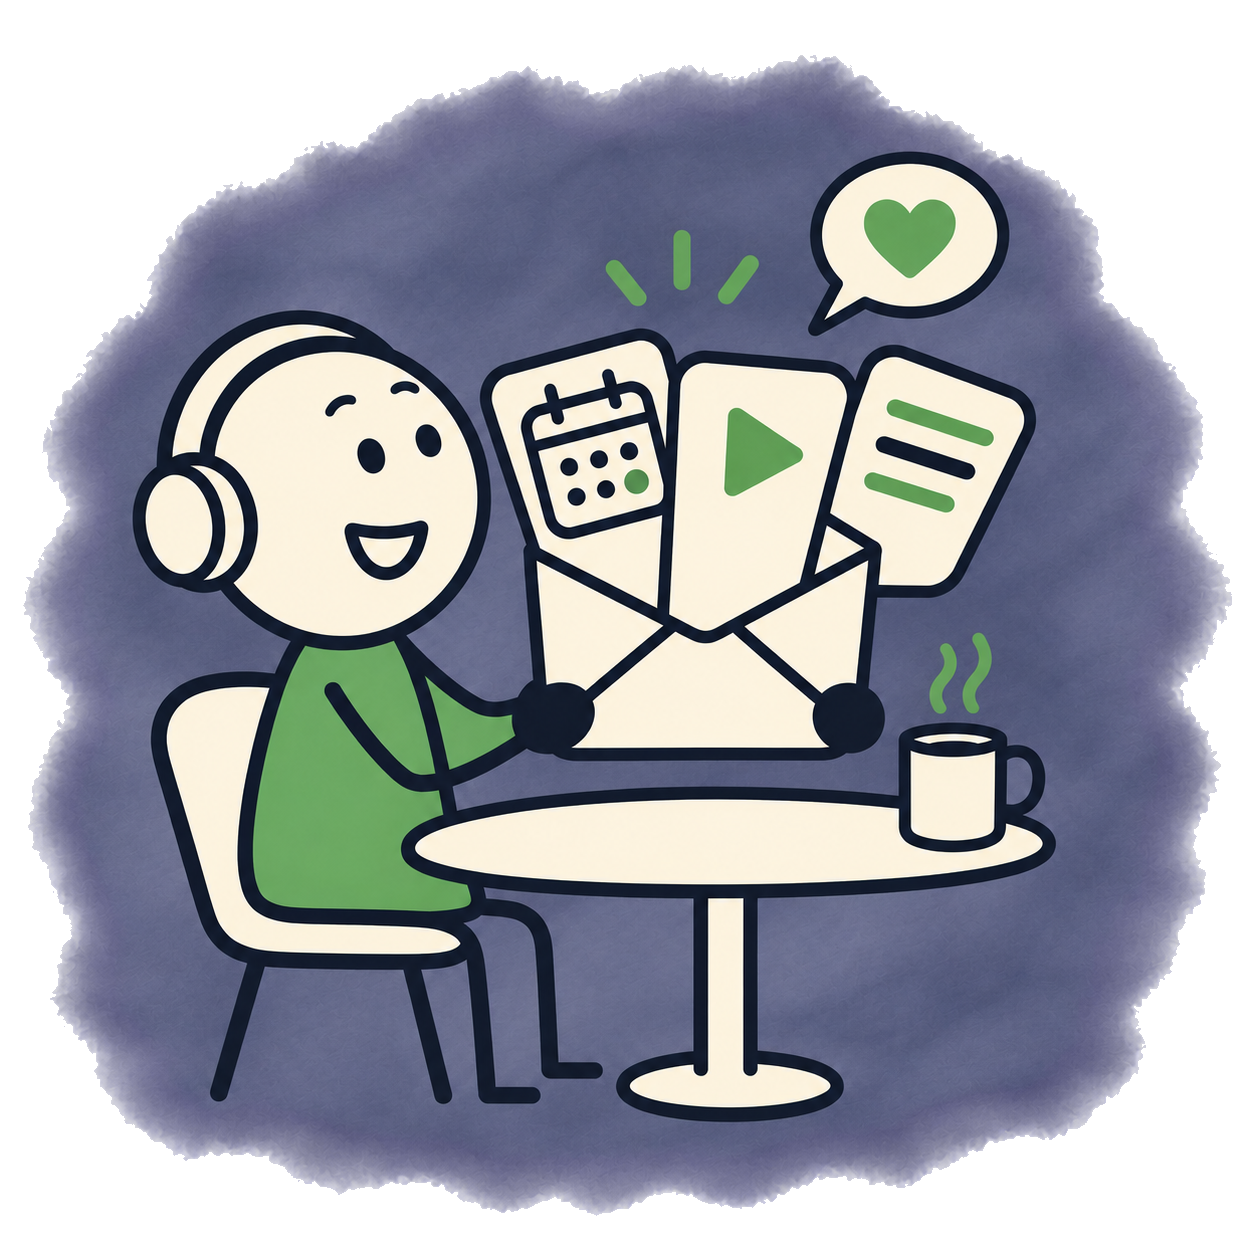
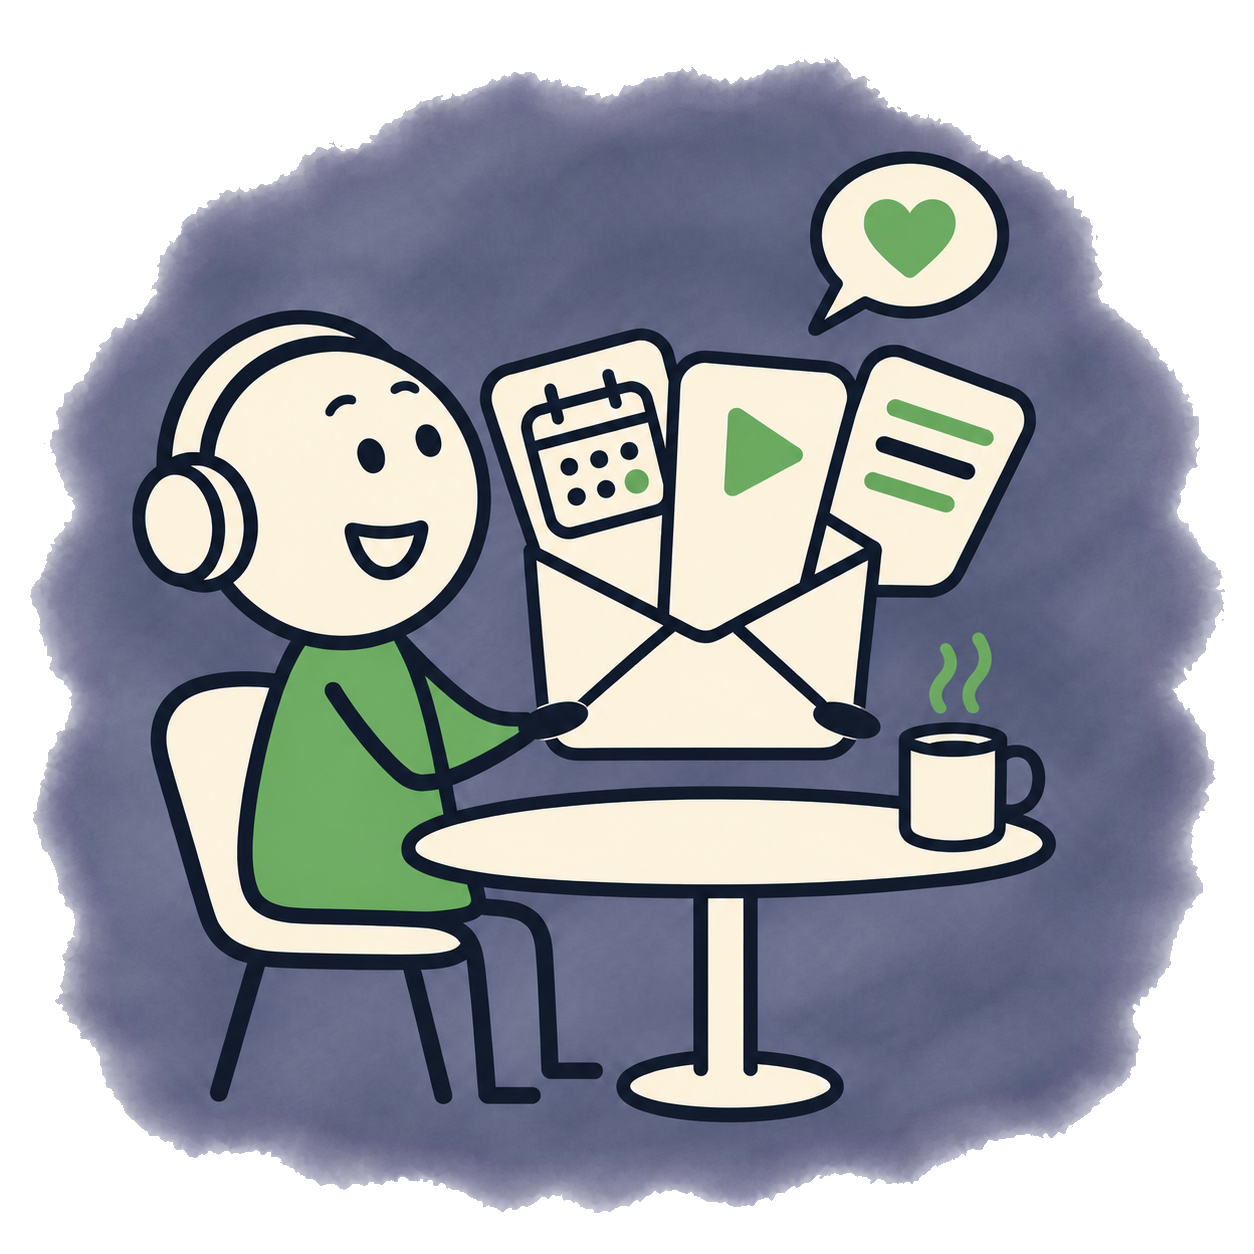
Newsletter hero drawing: no green spark lines, small dark oval hands
The style rules ask for neither starbursts over objects nor round-ball hands;
both themes re-edited from the same compositions and re-keyed.

diff --git a/_docs/design/illustration-assets.md b/_docs/design/illustration-assets.md
@@ -342,7 +342,9 @@ envelope of event, video and article cards) were generated with the built-in
 imagegen tool through Codex (backend unverified) on `#ff00ff` chroma, with
 `podcast-hero.webp` / `podcast-hero-dark.webp` as the style references; the
 dark file is its own pass from the light composition, finished with
-`finish_chroma.py` at default parameters.
+`finish_chroma.py` at default parameters. A follow-up edit removed the green
+spark lines over the cards and drew the hands as small dark ovals, per the
+illustration style rules.
 
 ## Wire it into a page
 
